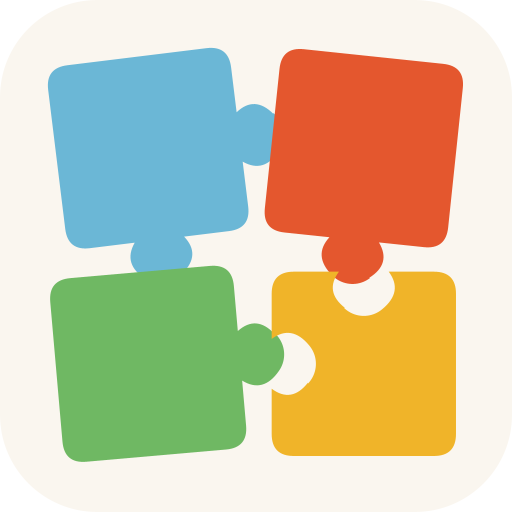
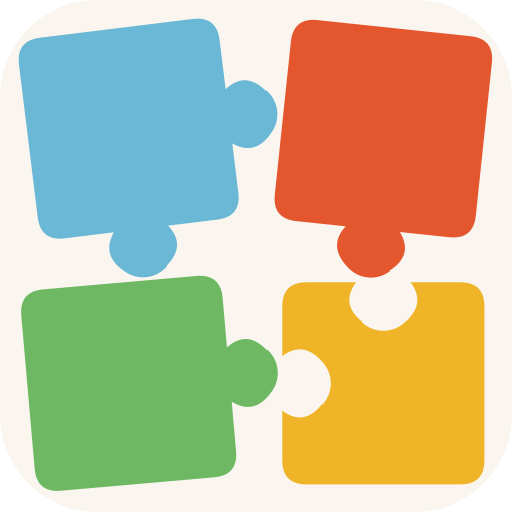
The mark drawn tighter: every knob hovers at its socket (D-067)

Changed region(s): [[0.0312, 0.0312, 0.9688, 0.9688]]

diff --git a/tools/src/main/kotlin/io/github/muntasimulhaque/puzzlet/tools/MakeIconTakes.kt b/tools/src/main/kotlin/io/github/muntasimulhaque/puzzlet/tools/MakeIconTakes.kt
@@ -1,0 +1,175 @@
+package io.github.muntasimulhaque.puzzlet.tools
+
+import java.awt.Color
+import java.awt.Graphics2D
+import java.awt.RenderingHints
+import java.awt.geom.Rectangle2D
+import java.awt.image.BufferedImage
+import java.io.File
+import javax.imageio.ImageIO
+import kotlin.math.hypot
+
+/**
+ * The icon round: from-scratch takes of the mark, rendered as images so the
+ * owner points at one instead of reading prose about them (the D-036
+ * lesson). Working scratch under build/, never committed; the generator
+ * and its task are swept once the round is decided.
+ *
+ * Every take is the gather family or a plain sibling of it, flat fills of
+ * plain paths only, so any winner can become the shipped icon with byte
+ * pins that hold across JDKs (AGENTS.md, Lessons). Output: one contact
+ * sheet and one 512 tile per take, under build/icon-takes.
+ */
+object MakeIconTakes {
+
+    /** One take: a name and the way its gather is laid out. */
+    data class Take(
+        val id: String,
+        val gapFrac: Double,
+        val pieceScale: Double,
+        val tiltsDeg: List<Double>,
+        val span: Double,
+    )
+
+    val TAKES: List<Take> = listOf(
+        // The shipped mark, for comparison: gap 0.17, pieces at 0.40.
+        Take("a-current", 0.17, 0.40, listOf(-7.0, 6.0, -5.0), 0.88),
+        // The hover: the knobs stop a hair outside the open sockets, so the
+        // bites stay clean and the story is the moment before the click.
+        Take("g-hover", 0.26, 0.40, listOf(-7.0, 6.0, -5.0), 0.88),
+        // The hover, with the pieces grown to fill the tile.
+        Take("h-hover-big", 0.26, 0.42, listOf(-7.0, 6.0, -5.0), 0.94),
+        // The hover, calm: less wobble in the wanderers.
+        Take("i-hover-calm", 0.26, 0.42, listOf(-4.0, 4.0, -3.0), 0.94),
+        // Dead straight: the four pieces squared, a fresh box on the table.
+        Take("e-square", 0.08, 0.42, listOf(0.0, 0.0, 0.0), 0.90),
+        // The loose, toy-scatter feel: more tilt, honest gap.
+        Take("f-playful", 0.13, 0.40, listOf(-9.0, 8.0, -6.0), 0.88),
+    )
+
+    /** One 512 store tile of a take: paper tile, the gather on it. */
+    fun tile(take: Take, sizePx: Int): java.awt.image.BufferedImage =
+        Gather.paint(
+            size = sizePx,
+            tile = true,
+            groundArgb = IconDesign.PAPER,
+            cornerFraction = IconDesign.STORE_CORNER_FRACTION,
+            gapFrac = take.gapFrac,
+            insetFrac = (1.0 - take.span) / 2.0,
+            pieceScale = take.pieceScale,
+            tiltsDeg = take.tiltsDeg,
+        )
+
+    /** One adaptive foreground: the take on transparency, for mask checks. */
+    fun foreground(take: Take, sizePx: Int): java.awt.image.BufferedImage =
+        Gather.paint(
+            size = sizePx,
+            tile = false,
+            groundArgb = 0,
+            gapFrac = take.gapFrac,
+            insetFrac = IconDesign.FG_INSET,
+            pieceScale = take.pieceScale,
+            tiltsDeg = take.tiltsDeg,
+        )
+}
+
+fun main(args: Array<String>) {
+    val rootDir = File(args.firstOrNull() ?: ".").absoluteFile
+    val outDir = File(rootDir, "build/icon-takes")
+    check(outDir.isDirectory || outDir.mkdirs()) { "Could not create $outDir" }
+
+    for (take in MakeIconTakes.TAKES) {
+        ImageIO.write(MakeIconTakes.tile(take, 512), "png", File(outDir, "${take.id}-512.png"))
+        ImageIO.write(MakeIconTakes.foreground(take, 432), "png", File(outDir, "${take.id}-fg.png"))
+    }
+
+    // The contact sheet: one row per take, big tile then small tiles, so the
+    // launcher sizes are judged too, not only the poster.
+    val margin = 36
+    val big = 300
+    val small = 96
+    val label = 40
+    val row = margin * 2 + big + 16 + small * 2 + 16
+    val width = margin * 2 + big + 16 + small * 2 + 16 + 48
+    val height = margin * 2 + MakeIconTakes.TAKES.size * (big + label + 18)
+    val image = java.awt.image.BufferedImage(width, height, java.awt.image.BufferedImage.TYPE_INT_ARGB)
+    val g = image.createGraphics()
+    g.setRenderingHint(RenderingHints.KEY_ANTIALIASING, RenderingHints.VALUE_ANTIALIAS_ON)
+    g.setRenderingHint(RenderingHints.KEY_TEXT_ANTIALIASING, RenderingHints.VALUE_TEXT_ANTIALIAS_ON)
+    g.paint = Color(IconDesign.PAPER, true)
+    g.fill(Rectangle2D.Double(0.0, 0.0, width.toDouble(), height.toDouble()))
+    var y = margin
+    for (take in MakeIconTakes.TAKES) {
+        g.clipRect(0, 0, width, height)
+        drawCleanString(
+            g, take.id, "baloo2_bold.ttf", 26f, Color(IconDesign.INK).rgb,
+            margin.toFloat(), (y + 26).toFloat(), rootDir,
+        )
+        g.drawImage(MakeIconTakes.tile(take, big), margin, y + label, null)
+        g.drawImage(MakeIconTakes.tile(take, small), margin + big + 16, y + label, null)
+        g.drawImage(MakeIconTakes.tile(take, 48), margin + big + 16 + small + 16, y + label, null)
+        // The adaptive foreground, pasted on paper at its real inset.
+        val fg = MakeIconTakes.foreground(take, small)
+        g.drawImage(fg, margin + big + 16 + small + 16 + 48 + 16, y + label, null)
+        y += big + label + 18
+    }
+    g.dispose()
+    ImageIO.write(image, "png", File(outDir, "take-sheet.png"))
+
+    // Mask math: how far each take's foreground reaches from the centre,
+    // against the 32 dp of 108 dp the launcher mask allows. And the tile
+    // silhouette: nothing may poke past the rounded store corner.
+    for (take in MakeIconTakes.TAKES) {
+        val fg = MakeIconTakes.foreground(take, 432)
+        val cx = 216.0
+        var reach = 0.0
+        for (py in 0 until 432) {
+            for (px in 0 until 432) {
+                if ((fg.getRGB(px, py) ushr 24) > 16) {
+                    reach = maxOf(reach, kotlin.math.hypot(px - cx, py - cx))
+                }
+            }
+        }
+        println(
+            "${take.id}: fg reach ${"%.1f".format(reach)} px of limit ${432 * 32.0 / 108.0} " +
+                "(${if (reach <= 432 * 32.0 / 108.0) "inside" else "OUTSIDE"} the mask)",
+        )
+        val tile = MakeIconTakes.tile(take, 512)
+        var pokes = 0
+        val corner = 512 * MakeIconTakes.TAKES[0].let { IconDesign.STORE_CORNER_FRACTION }
+        fun outside(x: Double, y: Double): Double {
+            val r = corner
+            val qx = kotlin.math.abs(x - 256) - (256 - r)
+            val qy = kotlin.math.abs(y - 256) - (256 - r)
+            val ax = kotlin.math.max(qx, 0.0)
+            val ay = kotlin.math.max(qy, 0.0)
+            return kotlin.math.hypot(ax, ay) + kotlin.math.min(kotlin.math.max(qx, qy), 0.0) - r
+        }
+        for (py in 0 until 512 step 2) {
+            for (px in 0 until 512 step 2) {
+                if ((tile.getRGB(px, py) ushr 24) > 200 && outside(px.toDouble(), py.toDouble()) > 1.5) {
+                    pokes += 1
+                }
+            }
+        }
+        println("${take.id}: tile silhouette pokes: $pokes")
+    }
+
+    // The banner takes: same mark, tuned metrics, for the feature round.
+    val banners = mapOf(
+        "fg-current" to arrayOf(340, 96, 80, 108f, 540f, 268f, 28f, 542f, 322f),
+        "fg-big" to arrayOf(372, 88, 64, 112f, 516f, 266f, 30f, 518f, 324f),
+        "fg-tall" to arrayOf(340, 96, 80, 116f, 520f, 264f, 30f, 522f, 326f),
+    )
+    for ((name, m) in banners) {
+        val banner = MakeArt.featureOn(
+            rootDir,
+            IconDesign.LAGOON, IconDesign.PAPER, 0xD9FAF6EF.toInt(),
+            markSize = m[0] as Int, markX = m[1] as Int, markY = m[2] as Int,
+            nameSize = m[3] as Float, nameX = m[4] as Float, nameY = m[5] as Float,
+            tagSize = m[6] as Float, tagX = m[7] as Float, tagY = m[8] as Float,
+        )
+        ImageIO.write(banner, "png", File(outDir, "$name.png"))
+    }
+    println("Wrote the icon takes to $outDir")
+}

diff --git a/tools/src/main/kotlin/io/github/muntasimulhaque/puzzlet/tools/MakeIcons.kt b/tools/src/main/kotlin/io/github/muntasimulhaque/puzzlet/tools/MakeIcons.kt
@@ -58,21 +58,29 @@ object IconDesign {
      * sits inside the 66 dp mask circle with room to spare, so no
      * launcher shape ever truncates a piece.
      */
-    const val FG_INSET = 0.27
+    const val FG_INSET = 0.275
     /** Fraction of a full-art tile the gather field spans: small, corners safe. */
-    const val TILE_SPAN = 0.88
+    const val TILE_SPAN = 0.94
     /**
      * Store tile field fraction: the store corner bites deeper, so the
      * field tucks slightly larger into the surviving corner tips.
      */
-    const val STORE_SPAN = 0.90
+    const val STORE_SPAN = 0.94
     /** Legacy tile corner radius as a fraction of the tile. */
     const val LEGACY_CORNER_FRACTION = 0.22
     /** Store tile corner radius as a fraction of the tile. */
     const val STORE_CORNER_FRACTION = 0.19
 
-    /** Wanderer gap as a share of the piece side. */
-    const val GAP_FRAC = 0.17
+    /**
+     * Wanderer gap as a share of the piece side. The hover: the knobs
+     * stop a hair outside the open sockets (D-067), so every bite reads
+     * as a clean socket and the mark is the moment before the click,
+     * not four squares floating apart.
+     */
+    const val GAP_FRAC = 0.26
+
+    /** Piece side as a share of the field, grown to fill the tile. */
+    const val PIECE_SCALE = 0.42
 
     /**
      * Knob profile on a unit edge: stem half-width, head centre height,
@@ -103,6 +111,7 @@ internal fun paintLayer(size: Int, layer: Layer, cornerFraction: Double): Buffer
                 groundArgb = d.PAPER,
                 cornerFraction = cornerFraction,
                 insetFrac = (1.0 - span) / 2.0,
+                pieceScale = d.PIECE_SCALE,
             )
         }
         Layer.FOREGROUND -> Gather.paint(
@@ -110,6 +119,7 @@ internal fun paintLayer(size: Int, layer: Layer, cornerFraction: Double): Buffer
             tile = false,
             groundArgb = 0,
             insetFrac = d.FG_INSET,
+            pieceScale = d.PIECE_SCALE,
         )
         Layer.MONO -> Gather.paint(
             size,
@@ -117,6 +127,7 @@ internal fun paintLayer(size: Int, layer: Layer, cornerFraction: Double): Buffer
             groundArgb = 0,
             mono = true,
             insetFrac = d.FG_INSET,
+            pieceScale = d.PIECE_SCALE,
         )
     }
 }

diff --git a/tools/src/main/kotlin/io/github/muntasimulhaque/puzzlet/tools/MakeArt.kt b/tools/src/main/kotlin/io/github/muntasimulhaque/puzzlet/tools/MakeArt.kt
@@ -38,7 +38,21 @@ object MakeArt {
      * line colours are the caller's, so a candidate sheet can try another
      * ground without a second copy of the layout.
      */
-    internal fun featureOn(rootDir: File, groundArgb: Int, inkArgb: Int, softArgb: Int): BufferedImage {
+    internal fun featureOn(
+        rootDir: File,
+        groundArgb: Int,
+        inkArgb: Int,
+        softArgb: Int,
+        markSize: Int = 372,
+        markX: Int = 88,
+        markY: Int = 64,
+        nameSize: Float = 112f,
+        nameX: Float = 516f,
+        nameY: Float = 266f,
+        tagSize: Float = 30f,
+        tagX: Float = 518f,
+        tagY: Float = 324f,
+    ): BufferedImage {
         val w = 1024
         val h = 500
         val image = BufferedImage(w, h, BufferedImage.TYPE_INT_ARGB)
@@ -48,11 +62,15 @@ object MakeArt {
         g.paint = Color(groundArgb)
         g.fill(Rectangle2D.Double(0.0, 0.0, w.toDouble(), h.toDouble()))
         g.dispose()
-        pasteArt(image, Gather.paint(340, tile = false, groundArgb = 0), 96, 80, 1.0f)
+        pasteArt(
+            image,
+            Gather.paint(markSize, tile = false, groundArgb = 0, pieceScale = IconDesign.PIECE_SCALE),
+            markX, markY, 1.0f,
+        )
         val g2 = image.createGraphics()
         g2.setRenderingHint(RenderingHints.KEY_TEXT_ANTIALIASING, RenderingHints.VALUE_TEXT_ANTIALIAS_ON)
-        drawCleanString(g2, "Puzzlet", "baloo2_extrabold.ttf", 108f, inkArgb, 540f, 268f, rootDir)
-        drawCleanString(g2, "A calm jigsaw for small hands.", "baloo2_bold.ttf", 28f, softArgb, 542f, 322f, rootDir)
+        drawCleanString(g2, "Puzzlet", "baloo2_extrabold.ttf", nameSize, inkArgb, nameX, nameY, rootDir)
+        drawCleanString(g2, "A calm jigsaw for small hands.", "baloo2_bold.ttf", tagSize, softArgb, tagX, tagY, rootDir)
         g2.dispose()
         return image
     }

diff --git a/tools/src/main/kotlin/io/github/muntasimulhaque/puzzlet/tools/MarkGather.kt b/tools/src/main/kotlin/io/github/muntasimulhaque/puzzlet/tools/MarkGather.kt
@@ -157,6 +157,8 @@ internal object Gather {
         insetFrac: Double = 0.0,
         cornerFraction: Double = 0.19,
         palette: List<Int> = gatherPalette(mono),
+        pieceScale: Double = 0.40,
+        tiltsDeg: List<Double> = listOf(-7.0, 6.0, -5.0),
     ): BufferedImage {
         val image = BufferedImage(size, size, BufferedImage.TYPE_INT_ARGB)
         val g = beginMark(image)
@@ -164,7 +166,7 @@ internal object Gather {
         else if (groundArgb != 0) fillGround(g, size, size, groundArgb)
         val o = size * insetFrac
         val se = size * (1.0 - 2.0 * insetFrac)
-        val s = se * 0.40
+        val s = se * pieceScale
         val gap = s * gapFrac
         // The 2x2 field centred (gap runs through the middle): home bottom-right.
         val hx = o + se / 2.0 + gap / 2.0
@@ -174,9 +176,9 @@ internal object Gather {
         val top = pieceOutline(hx, hy - s - gap, s, s * 0.12, listOf(0, 0, 1, 0))
         val left = pieceOutline(hx - s - gap, hy, s, s * 0.12, listOf(0, 1, 0, 0))
         val corner = pieceOutline(hx - s - gap, hy - s - gap, s, s * 0.12, listOf(0, 1, 1, 0))
-        fillPiece(g, rotated(corner, hx - s / 2 - gap, hy - s / 2 - gap, -7.0), sky)
-        fillPiece(g, rotated(top, hx + s / 2, hy - s / 2 - gap, 6.0), coral)
-        fillPiece(g, rotated(left, hx - s / 2 - gap, hy + s / 2, -5.0), grass)
+        fillPiece(g, rotated(corner, hx - s / 2 - gap, hy - s / 2 - gap, tiltsDeg[0]), sky)
+        fillPiece(g, rotated(top, hx + s / 2, hy - s / 2 - gap, tiltsDeg[1]), coral)
+        fillPiece(g, rotated(left, hx - s / 2 - gap, hy + s / 2, tiltsDeg[2]), grass)
         fillPiece(g, home, honey)
         g.dispose()
         return image

diff --git a/tools/src/test/kotlin/io/github/muntasimulhaque/puzzlet/tools/MakeIconsTest.kt b/tools/src/test/kotlin/io/github/muntasimulhaque/puzzlet/tools/MakeIconsTest.kt
@@ -42,7 +42,7 @@ class MakeIconsTest {
     private fun gatherFrame(size: Int, insetFrac: Double): Frame {
         val o = size * insetFrac
         val se = size * (1.0 - 2.0 * insetFrac)
-        val s = se * 0.40
+        val s = se * IconDesign.PIECE_SCALE
         val gap = s * IconDesign.GAP_FRAC
         return Frame(se, s, gap, o + se / 2.0 + gap / 2.0, o + se / 2.0 + gap / 2.0)
     }
